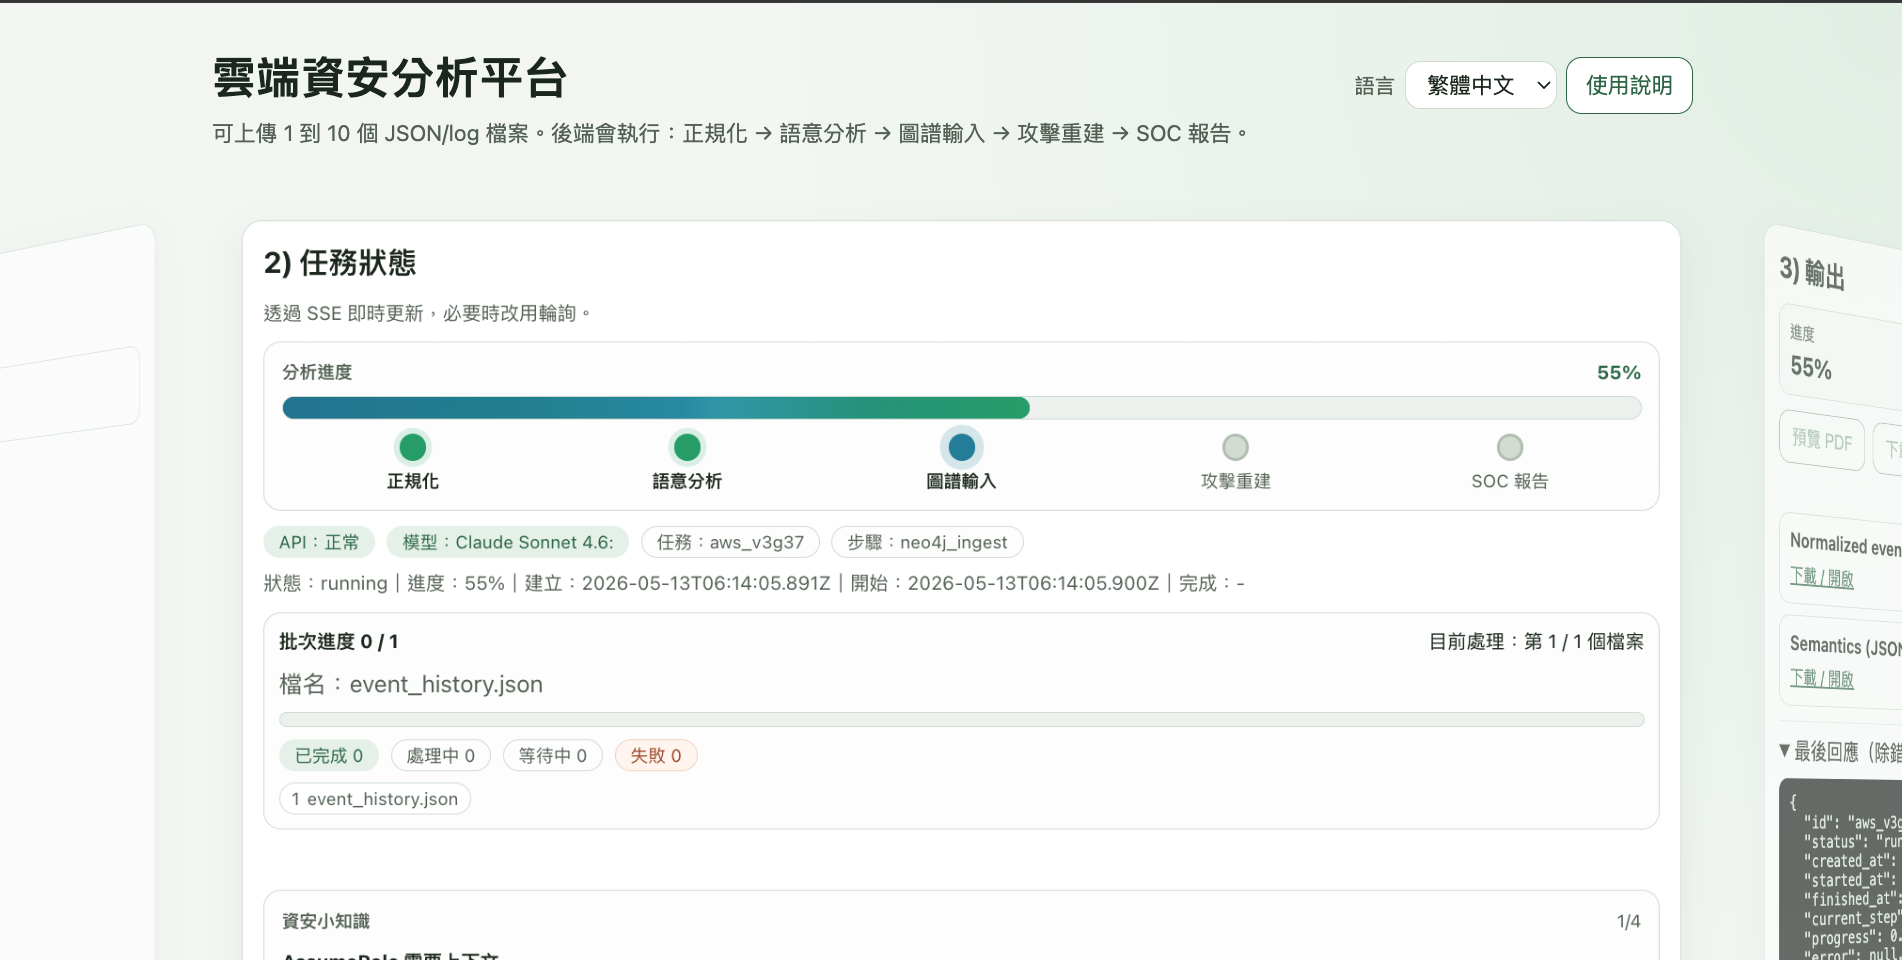
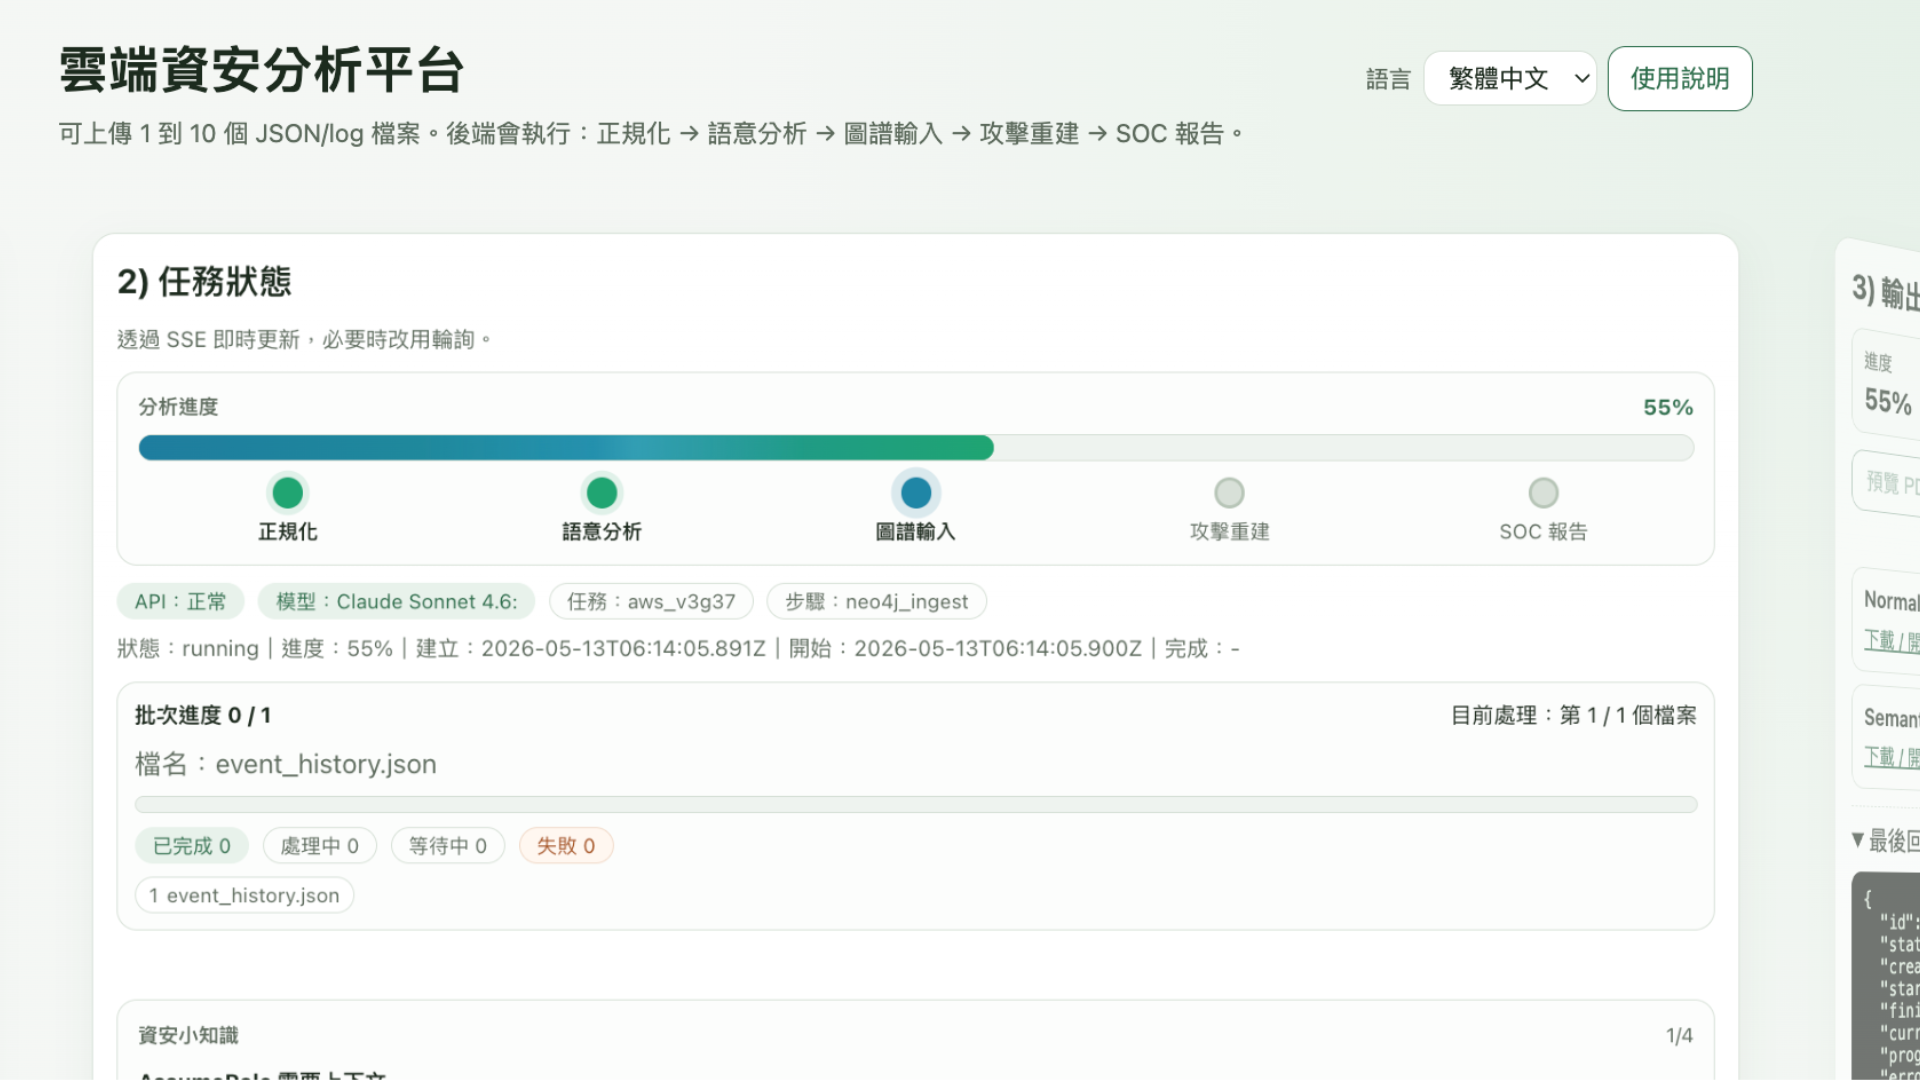
Photo Changed

diff --git a/src/views/Home.vue b/src/views/Home.vue
@@ -74,7 +74,7 @@
           <img class="object-cover w-full h-56 md:h-48 md:mx-4 md:w-80 shrink-0" src="/CloudPlatform.png" alt="">
 
           <div class="mt-6 md:mx-4 md:mt-0">
-            <h2 class="font-serif text-2xl font-medium text-gray-700 ">Cloud Security Analysis Platform</h2>
+            <h2 class="font-serif text-2xl font-medium text-gray-700 ">Cloud Security Platform</h2>
   
             <p class="mt-2 text-gray-500">A prototype platform that analyzes multi-cloud security logs and transforms them into structured insights through normalization, rule-based detection, and AI-assisted reporting.
 </p>